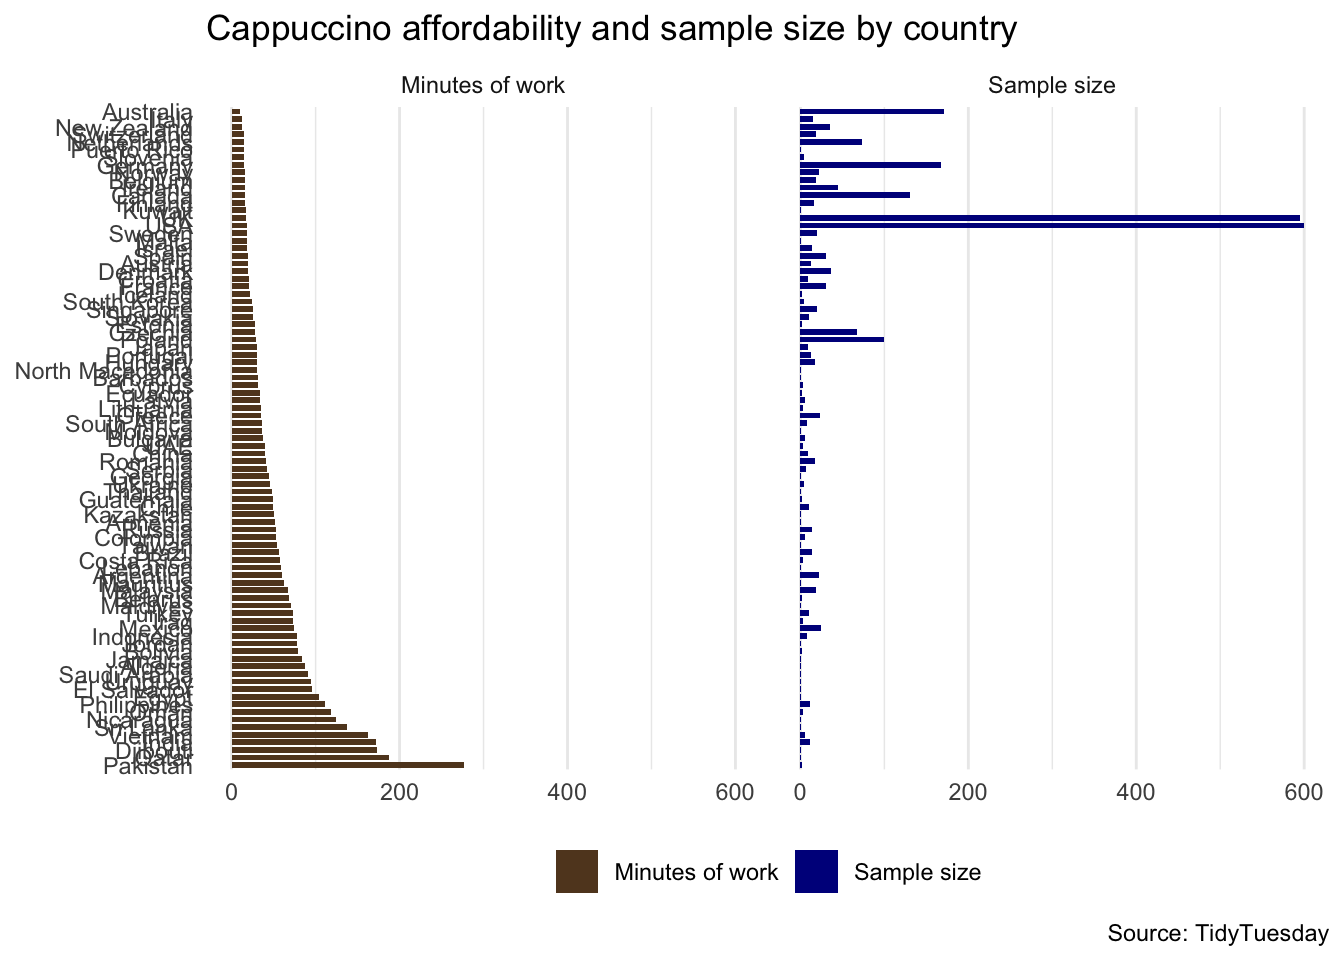
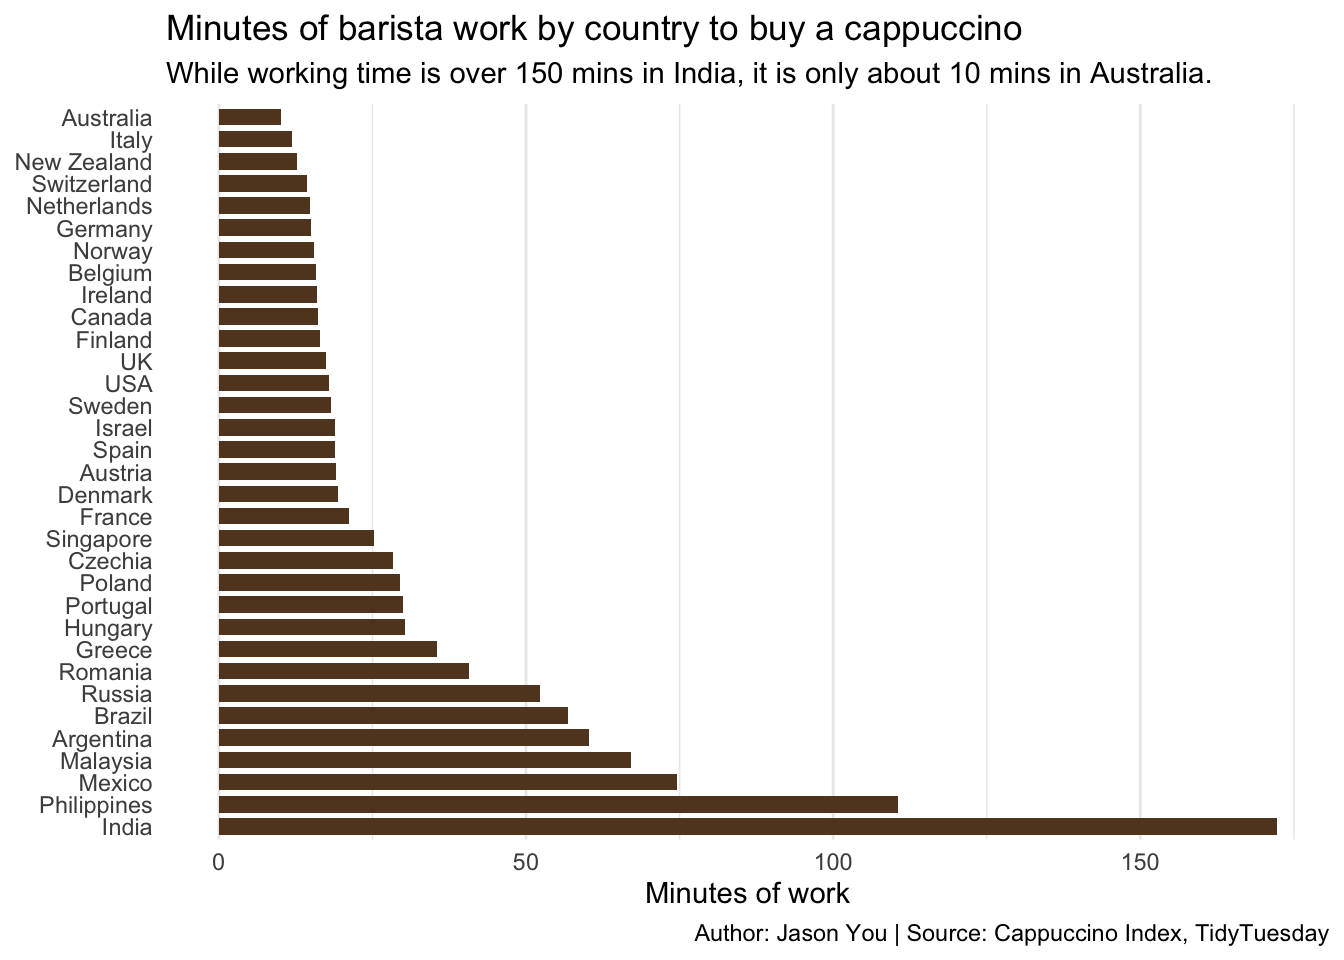
Built site for gh-pages

Changed region(s): [[0.0, 0.0, 1.0, 1.0], [0.5938, 0.7188, 0.625, 0.7812]]

diff --git a/tt/hw01-tt.html b/tt/hw01-tt.html
@@ -582,46 +582,41 @@ cookieconsent.run({
 <p>However, this data may not be entirely accurate, because the size of the sample for each countries vary a lot.</p>
 <div class="cell">
 <details class="code-fold"><summary>Code</summary><div class="code-copy-outer-scaffold"><div class="sourceCode cell-code" id="cb9"><pre class="sourceCode numberSource r number-lines code-with-copy"><code class="sourceCode r"><span id="cb9-1"><a href="#cb9-1"></a>plot_data <span class="ot">&lt;-</span> cappuccino_clean <span class="sc">|&gt;</span></span>
-<span id="cb9-2"><a href="#cb9-2"></a>  <span class="fu">mutate</span>(</span>
-<span id="cb9-3"><a href="#cb9-3"></a>    <span class="at">country =</span> <span class="fu">fct_reorder</span>(country, index, <span class="at">.desc =</span> <span class="cn">TRUE</span>)</span>
-<span id="cb9-4"><a href="#cb9-4"></a>  ) <span class="sc">|&gt;</span></span>
-<span id="cb9-5"><a href="#cb9-5"></a>  <span class="fu">select</span>(country, index, n) <span class="sc">|&gt;</span></span>
-<span id="cb9-6"><a href="#cb9-6"></a>  <span class="fu">pivot_longer</span>(</span>
-<span id="cb9-7"><a href="#cb9-7"></a>    <span class="at">cols =</span> <span class="fu">c</span>(index, n),</span>
-<span id="cb9-8"><a href="#cb9-8"></a>    <span class="at">names_to =</span> <span class="st">"measure"</span>,</span>
-<span id="cb9-9"><a href="#cb9-9"></a>    <span class="at">values_to =</span> <span class="st">"value"</span></span>
-<span id="cb9-10"><a href="#cb9-10"></a>  ) <span class="sc">|&gt;</span></span>
-<span id="cb9-11"><a href="#cb9-11"></a>  <span class="fu">mutate</span>(</span>
-<span id="cb9-12"><a href="#cb9-12"></a>    <span class="at">measure =</span> <span class="fu">recode</span>(</span>
-<span id="cb9-13"><a href="#cb9-13"></a>      measure,</span>
-<span id="cb9-14"><a href="#cb9-14"></a>      <span class="at">index =</span> <span class="st">"Minutes of work"</span>,</span>
-<span id="cb9-15"><a href="#cb9-15"></a>      <span class="at">n =</span> <span class="st">"Sample size"</span></span>
-<span id="cb9-16"><a href="#cb9-16"></a>    )</span>
-<span id="cb9-17"><a href="#cb9-17"></a>  )</span></code></pre></div><button title="Copy to Clipboard" class="code-copy-button"><i class="bi"></i></button></div>
+<span id="cb9-2"><a href="#cb9-2"></a>  <span class="fu">filter</span>(n <span class="sc">&gt;</span> <span class="dv">15</span>) <span class="sc">|&gt;</span></span>
+<span id="cb9-3"><a href="#cb9-3"></a>  <span class="fu">mutate</span>(</span>
+<span id="cb9-4"><a href="#cb9-4"></a>    <span class="at">country =</span> <span class="fu">fct_reorder</span>(country, index, <span class="at">.desc =</span> <span class="cn">TRUE</span>)</span>
+<span id="cb9-5"><a href="#cb9-5"></a>  ) <span class="sc">|&gt;</span></span>
+<span id="cb9-6"><a href="#cb9-6"></a>  <span class="fu">select</span>(country, index, n) <span class="sc">|&gt;</span></span>
+<span id="cb9-7"><a href="#cb9-7"></a>  <span class="fu">pivot_longer</span>(</span>
+<span id="cb9-8"><a href="#cb9-8"></a>    <span class="at">cols =</span> <span class="fu">c</span>(index, n),</span>
+<span id="cb9-9"><a href="#cb9-9"></a>    <span class="at">names_to =</span> <span class="st">"measure"</span>,</span>
+<span id="cb9-10"><a href="#cb9-10"></a>    <span class="at">values_to =</span> <span class="st">"value"</span></span>
+<span id="cb9-11"><a href="#cb9-11"></a>  ) <span class="sc">|&gt;</span></span>
+<span id="cb9-12"><a href="#cb9-12"></a>  <span class="fu">mutate</span>(</span>
+<span id="cb9-13"><a href="#cb9-13"></a>    <span class="at">measure =</span> <span class="fu">recode</span>(</span>
+<span id="cb9-14"><a href="#cb9-14"></a>      measure,</span>
+<span id="cb9-15"><a href="#cb9-15"></a>      <span class="at">index =</span> <span class="st">"Minutes of work"</span>,</span>
+<span id="cb9-16"><a href="#cb9-16"></a>      <span class="at">n =</span> <span class="st">"Sample size"</span></span>
+<span id="cb9-17"><a href="#cb9-17"></a>    )</span>
+<span id="cb9-18"><a href="#cb9-18"></a>  )</span></code></pre></div><button title="Copy to Clipboard" class="code-copy-button"><i class="bi"></i></button></div>
 </details>
 </div>
 <div class="cell">
 <details class="code-fold"><summary>Code</summary><div class="code-copy-outer-scaffold"><div class="sourceCode cell-code" id="cb10"><pre class="sourceCode numberSource r number-lines code-with-copy"><code class="sourceCode r"><span id="cb10-1"><a href="#cb10-1"></a><span class="fu">ggplot</span>(</span>
-<span id="cb10-2"><a href="#cb10-2"></a>  plot_data,</span>
-<span id="cb10-3"><a href="#cb10-3"></a>  <span class="fu">aes</span>(<span class="at">x =</span> value, <span class="at">y =</span> country, <span class="at">fill =</span> measure)) <span class="sc">+</span></span>
-<span id="cb10-4"><a href="#cb10-4"></a>  <span class="fu">geom_col</span>(<span class="at">width =</span> <span class="fl">0.75</span>) <span class="sc">+</span></span>
-<span id="cb10-5"><a href="#cb10-5"></a>  <span class="fu">facet_grid</span>(<span class="at">cols =</span> <span class="fu">vars</span>(measure)) <span class="sc">+</span></span>
-<span id="cb10-6"><a href="#cb10-6"></a>  <span class="fu">scale_fill_manual</span>(</span>
-<span id="cb10-7"><a href="#cb10-7"></a>    <span class="at">values =</span> <span class="fu">c</span>(</span>
-<span id="cb10-8"><a href="#cb10-8"></a>      <span class="st">"Minutes of work"</span> <span class="ot">=</span> <span class="st">"#614425"</span>,</span>
-<span id="cb10-9"><a href="#cb10-9"></a>      <span class="st">"Sample size"</span> <span class="ot">=</span> <span class="st">"darkblue"</span></span>
-<span id="cb10-10"><a href="#cb10-10"></a>    )) <span class="sc">+</span></span>
-<span id="cb10-11"><a href="#cb10-11"></a>  <span class="fu">labs</span>(</span>
-<span id="cb10-12"><a href="#cb10-12"></a>    <span class="at">title =</span> <span class="st">"Cappuccino affordability and sample size by country"</span>,</span>
-<span id="cb10-13"><a href="#cb10-13"></a>    <span class="at">x =</span> <span class="cn">NULL</span>,</span>
-<span id="cb10-14"><a href="#cb10-14"></a>    <span class="at">y =</span> <span class="cn">NULL</span>,</span>
-<span id="cb10-15"><a href="#cb10-15"></a>    <span class="at">fill =</span> <span class="cn">NULL</span>,</span>
-<span id="cb10-16"><a href="#cb10-16"></a>    <span class="at">caption =</span> <span class="st">"Source: TidyTuesday"</span></span>
-<span id="cb10-17"><a href="#cb10-17"></a>  ) <span class="sc">+</span></span>
-<span id="cb10-18"><a href="#cb10-18"></a>  <span class="fu">theme_minimal</span>() <span class="sc">+</span></span>
-<span id="cb10-19"><a href="#cb10-19"></a>  <span class="fu">theme</span>(</span>
-<span id="cb10-20"><a href="#cb10-20"></a>    <span class="at">legend.position =</span> <span class="st">"bottom"</span>,</span>
-<span id="cb10-21"><a href="#cb10-21"></a>    <span class="at">panel.grid.major.y =</span> <span class="fu">element_blank</span>())</span></code></pre></div><button title="Copy to Clipboard" class="code-copy-button"><i class="bi"></i></button></div>
+<span id="cb10-2"><a href="#cb10-2"></a>  cappuccino_clean <span class="sc">|&gt;</span></span>
+<span id="cb10-3"><a href="#cb10-3"></a>    <span class="fu">filter</span>(n <span class="sc">&gt;</span> <span class="dv">10</span>) <span class="sc">|&gt;</span></span>
+<span id="cb10-4"><a href="#cb10-4"></a>    <span class="fu">mutate</span>(<span class="at">country =</span> <span class="fu">fct_reorder</span>(country, index, <span class="at">.desc =</span> <span class="cn">TRUE</span>)),</span>
+<span id="cb10-5"><a href="#cb10-5"></a>  <span class="fu">aes</span>(<span class="at">x =</span> index, <span class="at">y =</span> country)</span>
+<span id="cb10-6"><a href="#cb10-6"></a>) <span class="sc">+</span></span>
+<span id="cb10-7"><a href="#cb10-7"></a>  <span class="fu">geom_col</span>(<span class="at">width =</span> <span class="fl">0.75</span>, <span class="at">fill =</span> <span class="st">"#614425"</span>) <span class="sc">+</span></span>
+<span id="cb10-8"><a href="#cb10-8"></a>  <span class="fu">labs</span>(</span>
+<span id="cb10-9"><a href="#cb10-9"></a>    <span class="at">title =</span> <span class="st">"Minutes of barista work by country to buy a cappuccino"</span>,</span>
+<span id="cb10-10"><a href="#cb10-10"></a>    <span class="at">subtitle =</span> <span class="st">"While working time is over 150 mins in India, it is only about 10 mins in Australia."</span>,</span>
+<span id="cb10-11"><a href="#cb10-11"></a>    <span class="at">x =</span> <span class="st">"Minutes of work"</span>,</span>
+<span id="cb10-12"><a href="#cb10-12"></a>    <span class="at">y =</span> <span class="cn">NULL</span>,</span>
+<span id="cb10-13"><a href="#cb10-13"></a>    <span class="at">caption =</span> <span class="st">"Author: Jason You | Source: Cappuccino Index, TidyTuesday"</span>)<span class="sc">+</span></span>
+<span id="cb10-14"><a href="#cb10-14"></a>  <span class="fu">theme_minimal</span>() <span class="sc">+</span></span>
+<span id="cb10-15"><a href="#cb10-15"></a>  <span class="fu">theme</span>(<span class="at">panel.grid.major.y =</span> <span class="fu">element_blank</span>())</span></code></pre></div><button title="Copy to Clipboard" class="code-copy-button"><i class="bi"></i></button></div>
 </details><div class="cell-output-display">
 <div>
 <figure class="figure"><p><img src="hw01-tt_files/figure-html/unnamed-chunk-7-1.png" class="img-fluid figure-img" width="672"></p>
@@ -1197,48 +1192,43 @@ cookieconsent.run({
 <span id="cb11-95"><a href="#cb11-95"></a></span>
 <span id="cb11-98"><a href="#cb11-98"></a><span class="in">```{r}</span></span>
 <span id="cb11-99"><a href="#cb11-99"></a>plot_data <span class="ot">&lt;-</span> cappuccino_clean <span class="sc">|&gt;</span></span>
-<span id="cb11-100"><a href="#cb11-100"></a>  <span class="fu">mutate</span>(</span>
-<span id="cb11-101"><a href="#cb11-101"></a>    <span class="at">country =</span> <span class="fu">fct_reorder</span>(country, index, <span class="at">.desc =</span> <span class="cn">TRUE</span>)</span>
-<span id="cb11-102"><a href="#cb11-102"></a>  ) <span class="sc">|&gt;</span></span>
-<span id="cb11-103"><a href="#cb11-103"></a>  <span class="fu">select</span>(country, index, n) <span class="sc">|&gt;</span></span>
-<span id="cb11-104"><a href="#cb11-104"></a>  <span class="fu">pivot_longer</span>(</span>
-<span id="cb11-105"><a href="#cb11-105"></a>    <span class="at">cols =</span> <span class="fu">c</span>(index, n),</span>
-<span id="cb11-106"><a href="#cb11-106"></a>    <span class="at">names_to =</span> <span class="st">"measure"</span>,</span>
-<span id="cb11-107"><a href="#cb11-107"></a>    <span class="at">values_to =</span> <span class="st">"value"</span></span>
-<span id="cb11-108"><a href="#cb11-108"></a>  ) <span class="sc">|&gt;</span></span>
-<span id="cb11-109"><a href="#cb11-109"></a>  <span class="fu">mutate</span>(</span>
-<span id="cb11-110"><a href="#cb11-110"></a>    <span class="at">measure =</span> <span class="fu">recode</span>(</span>
-<span id="cb11-111"><a href="#cb11-111"></a>      measure,</span>
-<span id="cb11-112"><a href="#cb11-112"></a>      <span class="at">index =</span> <span class="st">"Minutes of work"</span>,</span>
-<span id="cb11-113"><a href="#cb11-113"></a>      <span class="at">n =</span> <span class="st">"Sample size"</span></span>
-<span id="cb11-114"><a href="#cb11-114"></a>    )</span>
-<span id="cb11-115"><a href="#cb11-115"></a>  )</span>
-<span id="cb11-116"><a href="#cb11-116"></a><span class="in">```</span></span>
-<span id="cb11-117"><a href="#cb11-117"></a></span>
-<span id="cb11-120"><a href="#cb11-120"></a><span class="in">```{r}</span></span>
-<span id="cb11-121"><a href="#cb11-121"></a><span class="fu">ggplot</span>(</span>
-<span id="cb11-122"><a href="#cb11-122"></a>  plot_data,</span>
-<span id="cb11-123"><a href="#cb11-123"></a>  <span class="fu">aes</span>(<span class="at">x =</span> value, <span class="at">y =</span> country, <span class="at">fill =</span> measure)) <span class="sc">+</span></span>
-<span id="cb11-124"><a href="#cb11-124"></a>  <span class="fu">geom_col</span>(<span class="at">width =</span> <span class="fl">0.75</span>) <span class="sc">+</span></span>
-<span id="cb11-125"><a href="#cb11-125"></a>  <span class="fu">facet_grid</span>(<span class="at">cols =</span> <span class="fu">vars</span>(measure)) <span class="sc">+</span></span>
-<span id="cb11-126"><a href="#cb11-126"></a>  <span class="fu">scale_fill_manual</span>(</span>
-<span id="cb11-127"><a href="#cb11-127"></a>    <span class="at">values =</span> <span class="fu">c</span>(</span>
-<span id="cb11-128"><a href="#cb11-128"></a>      <span class="st">"Minutes of work"</span> <span class="ot">=</span> <span class="st">"#614425"</span>,</span>
-<span id="cb11-129"><a href="#cb11-129"></a>      <span class="st">"Sample size"</span> <span class="ot">=</span> <span class="st">"darkblue"</span></span>
-<span id="cb11-130"><a href="#cb11-130"></a>    )) <span class="sc">+</span></span>
-<span id="cb11-131"><a href="#cb11-131"></a>  <span class="fu">labs</span>(</span>
-<span id="cb11-132"><a href="#cb11-132"></a>    <span class="at">title =</span> <span class="st">"Cappuccino affordability and sample size by country"</span>,</span>
-<span id="cb11-133"><a href="#cb11-133"></a>    <span class="at">x =</span> <span class="cn">NULL</span>,</span>
-<span id="cb11-134"><a href="#cb11-134"></a>    <span class="at">y =</span> <span class="cn">NULL</span>,</span>
-<span id="cb11-135"><a href="#cb11-135"></a>    <span class="at">fill =</span> <span class="cn">NULL</span>,</span>
-<span id="cb11-136"><a href="#cb11-136"></a>    <span class="at">caption =</span> <span class="st">"Source: TidyTuesday"</span></span>
-<span id="cb11-137"><a href="#cb11-137"></a>  ) <span class="sc">+</span></span>
-<span id="cb11-138"><a href="#cb11-138"></a>  <span class="fu">theme_minimal</span>() <span class="sc">+</span></span>
-<span id="cb11-139"><a href="#cb11-139"></a>  <span class="fu">theme</span>(</span>
-<span id="cb11-140"><a href="#cb11-140"></a>    <span class="at">legend.position =</span> <span class="st">"bottom"</span>,</span>
-<span id="cb11-141"><a href="#cb11-141"></a>    <span class="at">panel.grid.major.y =</span> <span class="fu">element_blank</span>())</span>
-<span id="cb11-142"><a href="#cb11-142"></a><span class="in">```</span></span>
-<span id="cb11-143"><a href="#cb11-143"></a>This plot tells us about average minutes of work a barista have to spend to afford a cup of cappuccino by country. However, this data is distorted by the sample size of the dataset. The bar graph of the right shows how large each country's sample is. </span>
+<span id="cb11-100"><a href="#cb11-100"></a>  <span class="fu">filter</span>(n <span class="sc">&gt;</span> <span class="dv">15</span>) <span class="sc">|&gt;</span></span>
+<span id="cb11-101"><a href="#cb11-101"></a>  <span class="fu">mutate</span>(</span>
+<span id="cb11-102"><a href="#cb11-102"></a>    <span class="at">country =</span> <span class="fu">fct_reorder</span>(country, index, <span class="at">.desc =</span> <span class="cn">TRUE</span>)</span>
+<span id="cb11-103"><a href="#cb11-103"></a>  ) <span class="sc">|&gt;</span></span>
+<span id="cb11-104"><a href="#cb11-104"></a>  <span class="fu">select</span>(country, index, n) <span class="sc">|&gt;</span></span>
+<span id="cb11-105"><a href="#cb11-105"></a>  <span class="fu">pivot_longer</span>(</span>
+<span id="cb11-106"><a href="#cb11-106"></a>    <span class="at">cols =</span> <span class="fu">c</span>(index, n),</span>
+<span id="cb11-107"><a href="#cb11-107"></a>    <span class="at">names_to =</span> <span class="st">"measure"</span>,</span>
+<span id="cb11-108"><a href="#cb11-108"></a>    <span class="at">values_to =</span> <span class="st">"value"</span></span>
+<span id="cb11-109"><a href="#cb11-109"></a>  ) <span class="sc">|&gt;</span></span>
+<span id="cb11-110"><a href="#cb11-110"></a>  <span class="fu">mutate</span>(</span>
+<span id="cb11-111"><a href="#cb11-111"></a>    <span class="at">measure =</span> <span class="fu">recode</span>(</span>
+<span id="cb11-112"><a href="#cb11-112"></a>      measure,</span>
+<span id="cb11-113"><a href="#cb11-113"></a>      <span class="at">index =</span> <span class="st">"Minutes of work"</span>,</span>
+<span id="cb11-114"><a href="#cb11-114"></a>      <span class="at">n =</span> <span class="st">"Sample size"</span></span>
+<span id="cb11-115"><a href="#cb11-115"></a>    )</span>
+<span id="cb11-116"><a href="#cb11-116"></a>  )</span>
+<span id="cb11-117"><a href="#cb11-117"></a><span class="in">```</span></span>
+<span id="cb11-118"><a href="#cb11-118"></a></span>
+<span id="cb11-121"><a href="#cb11-121"></a><span class="in">```{r}</span></span>
+<span id="cb11-122"><a href="#cb11-122"></a><span class="fu">ggplot</span>(</span>
+<span id="cb11-123"><a href="#cb11-123"></a>  cappuccino_clean <span class="sc">|&gt;</span></span>
+<span id="cb11-124"><a href="#cb11-124"></a>    <span class="fu">filter</span>(n <span class="sc">&gt;</span> <span class="dv">10</span>) <span class="sc">|&gt;</span></span>
+<span id="cb11-125"><a href="#cb11-125"></a>    <span class="fu">mutate</span>(<span class="at">country =</span> <span class="fu">fct_reorder</span>(country, index, <span class="at">.desc =</span> <span class="cn">TRUE</span>)),</span>
+<span id="cb11-126"><a href="#cb11-126"></a>  <span class="fu">aes</span>(<span class="at">x =</span> index, <span class="at">y =</span> country)</span>
+<span id="cb11-127"><a href="#cb11-127"></a>) <span class="sc">+</span></span>
+<span id="cb11-128"><a href="#cb11-128"></a>  <span class="fu">geom_col</span>(<span class="at">width =</span> <span class="fl">0.75</span>, <span class="at">fill =</span> <span class="st">"#614425"</span>) <span class="sc">+</span></span>
+<span id="cb11-129"><a href="#cb11-129"></a>  <span class="fu">labs</span>(</span>
+<span id="cb11-130"><a href="#cb11-130"></a>    <span class="at">title =</span> <span class="st">"Minutes of barista work by country to buy a cappuccino"</span>,</span>
+<span id="cb11-131"><a href="#cb11-131"></a>    <span class="at">subtitle =</span> <span class="st">"While working time is over 150 mins in India, it is only about 10 mins in Australia."</span>,</span>
+<span id="cb11-132"><a href="#cb11-132"></a>    <span class="at">x =</span> <span class="st">"Minutes of work"</span>,</span>
+<span id="cb11-133"><a href="#cb11-133"></a>    <span class="at">y =</span> <span class="cn">NULL</span>,</span>
+<span id="cb11-134"><a href="#cb11-134"></a>    <span class="at">caption =</span> <span class="st">"Author: Jason You | Source: Cappuccino Index, TidyTuesday"</span>)<span class="sc">+</span></span>
+<span id="cb11-135"><a href="#cb11-135"></a>  <span class="fu">theme_minimal</span>() <span class="sc">+</span></span>
+<span id="cb11-136"><a href="#cb11-136"></a>  <span class="fu">theme</span>(<span class="at">panel.grid.major.y =</span> <span class="fu">element_blank</span>())</span>
+<span id="cb11-137"><a href="#cb11-137"></a><span class="in">```</span></span>
+<span id="cb11-138"><a href="#cb11-138"></a>This plot tells us about average minutes of work a barista have to spend to afford a cup of cappuccino by country. However, this data is distorted by the sample size of the dataset. The bar graph of the right shows how large each country's sample is. </span>
 </code></pre></div><button title="Copy to Clipboard" class="code-copy-button" data-in-quarto-modal=""><i class="bi"></i></button></div>
 </div></div></div></div></div>
 </div> <!-- /content -->

diff --git a/index.html b/index.html
@@ -4,7 +4,7 @@
 <meta charset="utf-8">
 <meta name="generator" content="quarto-1.9.38">
 <meta name="viewport" content="width=device-width, initial-scale=1.0, user-scalable=yes">
-<meta name="author" content="Your Name Here">
+<meta name="author" content="Jason You">
 <title>COMP/STAT212 Portfolio</title>
 <style>
 /* Default styles provided by pandoc.
@@ -476,7 +476,7 @@ cookieconsent.run({
     <div>
     <div class="quarto-title-meta-heading">Author</div>
     <div class="quarto-title-meta-contents">
-             <p>Your Name Here </p>
+             <p>Jason You </p>
           </div>
   </div>
     
@@ -495,8 +495,8 @@ cookieconsent.run({
 </header><p>Welcome to my online portfolio for COMP/STAT112 course taken at <a href="https://www.macalester.edu/">Macalester College</a>. Please, use the side bar on the left for navigation.</p>
 <div class="cell">
 <div class="cell-output-display">
-<div class="wordcloud2 html-widget html-fill-item" id="htmlwidget-1de881969a0f13394173" style="width:100%;height:464px;"></div>
-<script type="application/json" data-for="htmlwidget-1de881969a0f13394173">{"x":{"word":["welcome","to","comp","stat","212","mac","st paul"],"freq":[10,2,8,8,8,6,6],"fontFamily":"Segoe UI","fontWeight":"bold","color":"random-dark","minSize":0,"weightFactor":18,"backgroundColor":"white","gridSize":0,"minRotation":-0.7853981633974483,"maxRotation":0.7853981633974483,"shuffle":true,"rotateRatio":0.4,"shape":"cardioid","ellipticity":0.65,"figBase64":null,"hover":null},"evals":[],"jsHooks":{"render":[{"code":"function(el,x){\n                        console.log(123);\n                        if(!iii){\n                          window.location.reload();\n                          iii = False;\n\n                        }\n  }","data":null}]}}</script>
+<div class="wordcloud2 html-widget html-fill-item" id="htmlwidget-5edf02b8aed83b129dde" style="width:100%;height:464px;"></div>
+<script type="application/json" data-for="htmlwidget-5edf02b8aed83b129dde">{"x":{"word":["welcome","to","comp","stat","212","mac","st paul"],"freq":[10,2,8,8,8,6,6],"fontFamily":"Segoe UI","fontWeight":"bold","color":"random-dark","minSize":0,"weightFactor":18,"backgroundColor":"white","gridSize":0,"minRotation":-0.7853981633974483,"maxRotation":0.7853981633974483,"shuffle":true,"rotateRatio":0.4,"shape":"cardioid","ellipticity":0.65,"figBase64":null,"hover":null},"evals":[],"jsHooks":{"render":[{"code":"function(el,x){\n                        console.log(123);\n                        if(!iii){\n                          window.location.reload();\n                          iii = False;\n\n                        }\n  }","data":null}]}}</script>
 </div>
 </div>
 

diff --git a/404.html b/404.html
@@ -7,7 +7,7 @@
 <meta name="viewport" content="width=device-width, initial-scale=1.0, user-scalable=yes">
 
 
-<title>quarto-inputabbcdc478e2763d – COMP/STAT212 Portfolio</title>
+<title>quarto-input702814083fa4dbe8 – COMP/STAT212 Portfolio</title>
 <style>
 /* Default styles provided by pandoc.
 ** See https://pandoc.org/MANUAL.html#variables-for-html for config info.
